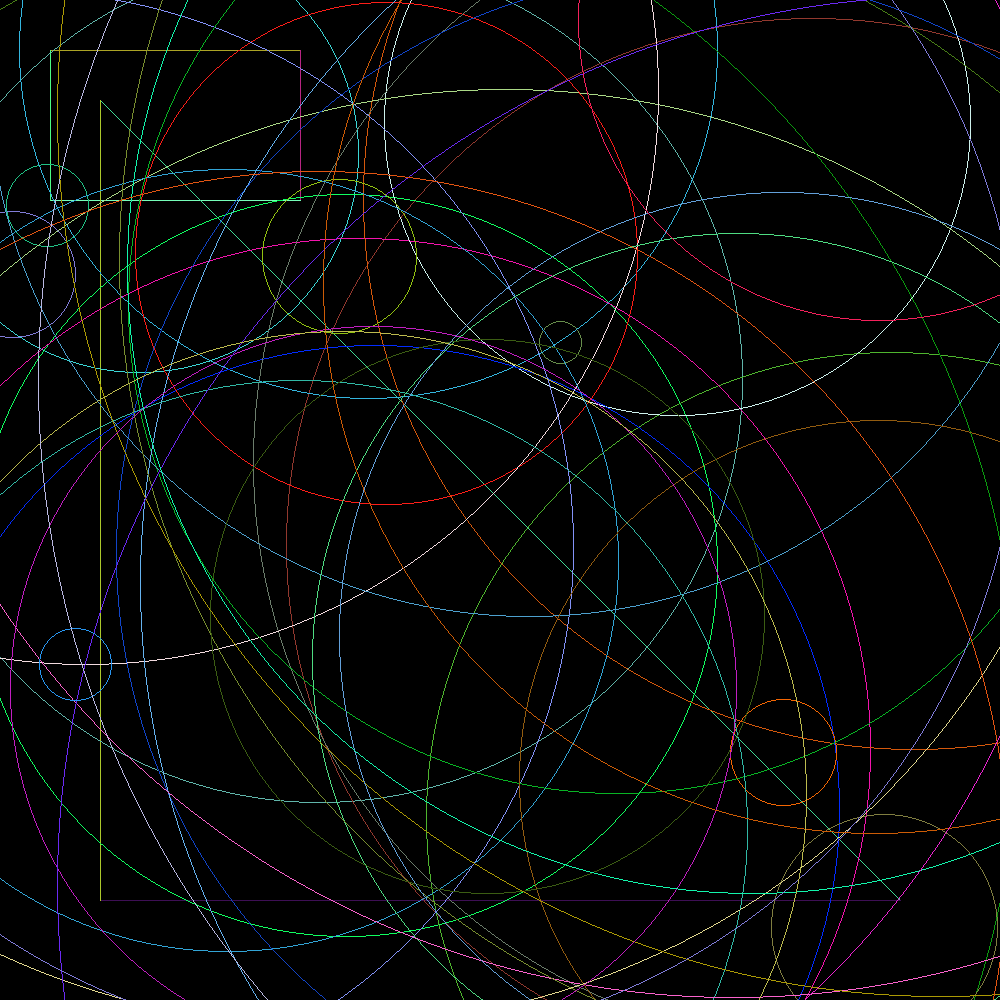
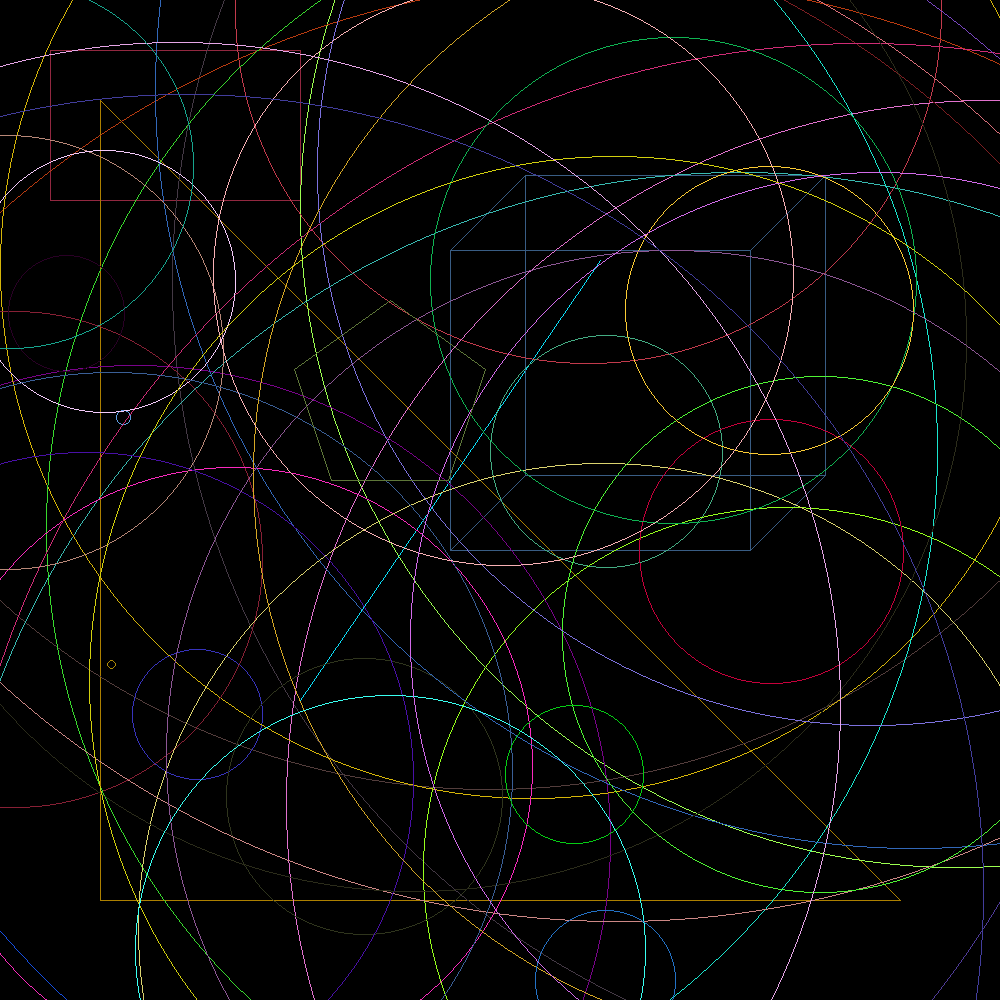
last dev iguess

diff --git a/GeometricalShapes/Shapes/Pentagon.java b/GeometricalShapes/Shapes/Pentagon.java
@@ -1,5 +1,40 @@
 package GeometricalShapes.Shapes;
 
+
+import java.awt.Color;
+import java.util.Random;
+import GeometricalShapes.Displayable;
+
 public class Pentagon {
-    
+    private Point[] p5;
+    private Line[] lines5;
+    private Color clr;
+
+    public Pentagon(Point ctr, int r) {
+        this.lines5 = new Line[5];
+        this.p5 = new Point[5];
+        this.clr = randomColor();
+        double angle = 2 * Math.PI / 5;
+        for (int i = 0; i< 5; i++) {
+            double tht = i * angle - Math.PI / 2;
+            this.p5[i] = new Point((int)(ctr.x + r * Math.cos(tht)), (int)(ctr.y + r * Math.sin(tht)));
+        }
+        this.lines5[0] = new Line(this.p5[0],this.p5[1]);
+        this.lines5[1] = new Line(this.p5[1],this.p5[2]);
+        this.lines5[2] = new Line(this.p5[2],this.p5[3]);
+        this.lines5[3] = new Line(this.p5[3],this.p5[4]);
+        this.lines5[4] = new Line(this.p5[4],this.p5[0]);
+    }
+
+    public void Draw(Displayable displayable) {
+        for (int i = 0;i<5;i++) {
+            this.lines5[i].color = this.clr;
+            this.lines5[i].draw(displayable);
+        }
+    }
+
+    private Color randomColor(){
+        Random rndNumber = new Random();
+        return new Color(rndNumber.nextInt(256), rndNumber.nextInt(256), rndNumber.nextInt(256));
+    }
 }

diff --git a/Main.java b/Main.java
@@ -20,6 +20,8 @@ public class Main {
             Circle circle = Circle.random(image.getWidth(), image.getHeight());
             circle.draw(image);
         }
+        Pentagon pen = new Pentagon(new Point(390,400),100);
+        pen.Draw(image);
         image.save("image.png");
 
     }

diff --git a/GeometricalShapes/Shapes/Line.java b/GeometricalShapes/Shapes/Line.java
@@ -9,7 +9,7 @@ import java.util.Random;
 public class Line implements Drawable {
     private final Point start;
     private final Point end;
-    private final Color color;
+    public Color color;
 
     public Line(Point start, Point end) {
         this.start = start;
